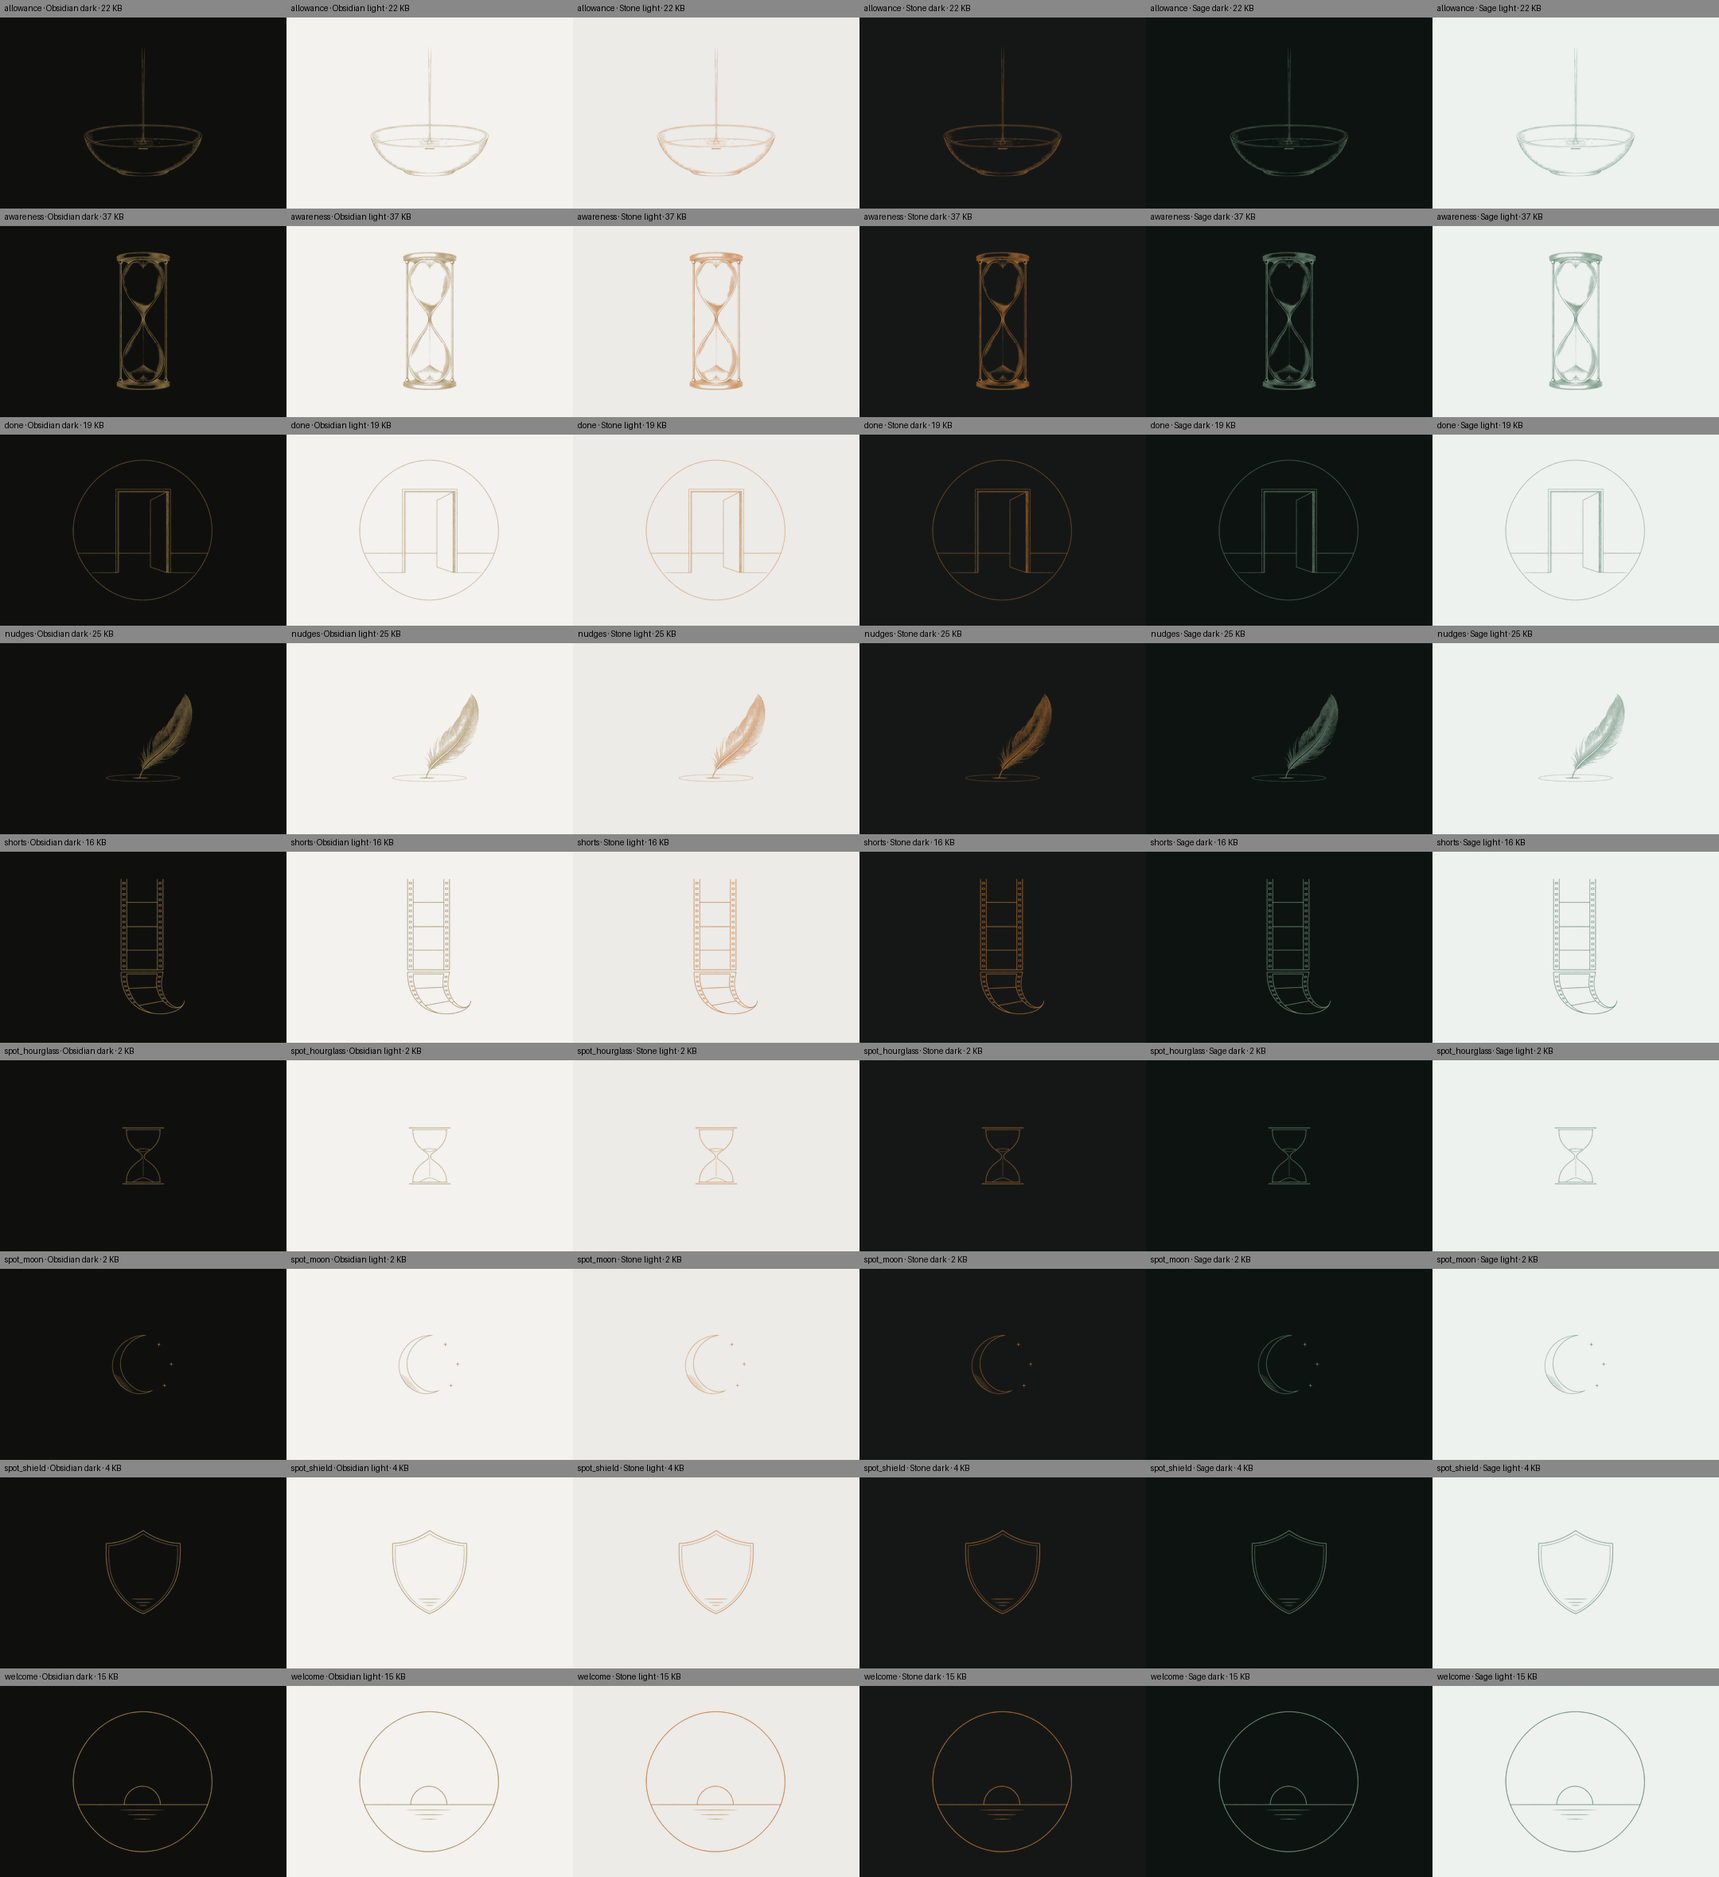
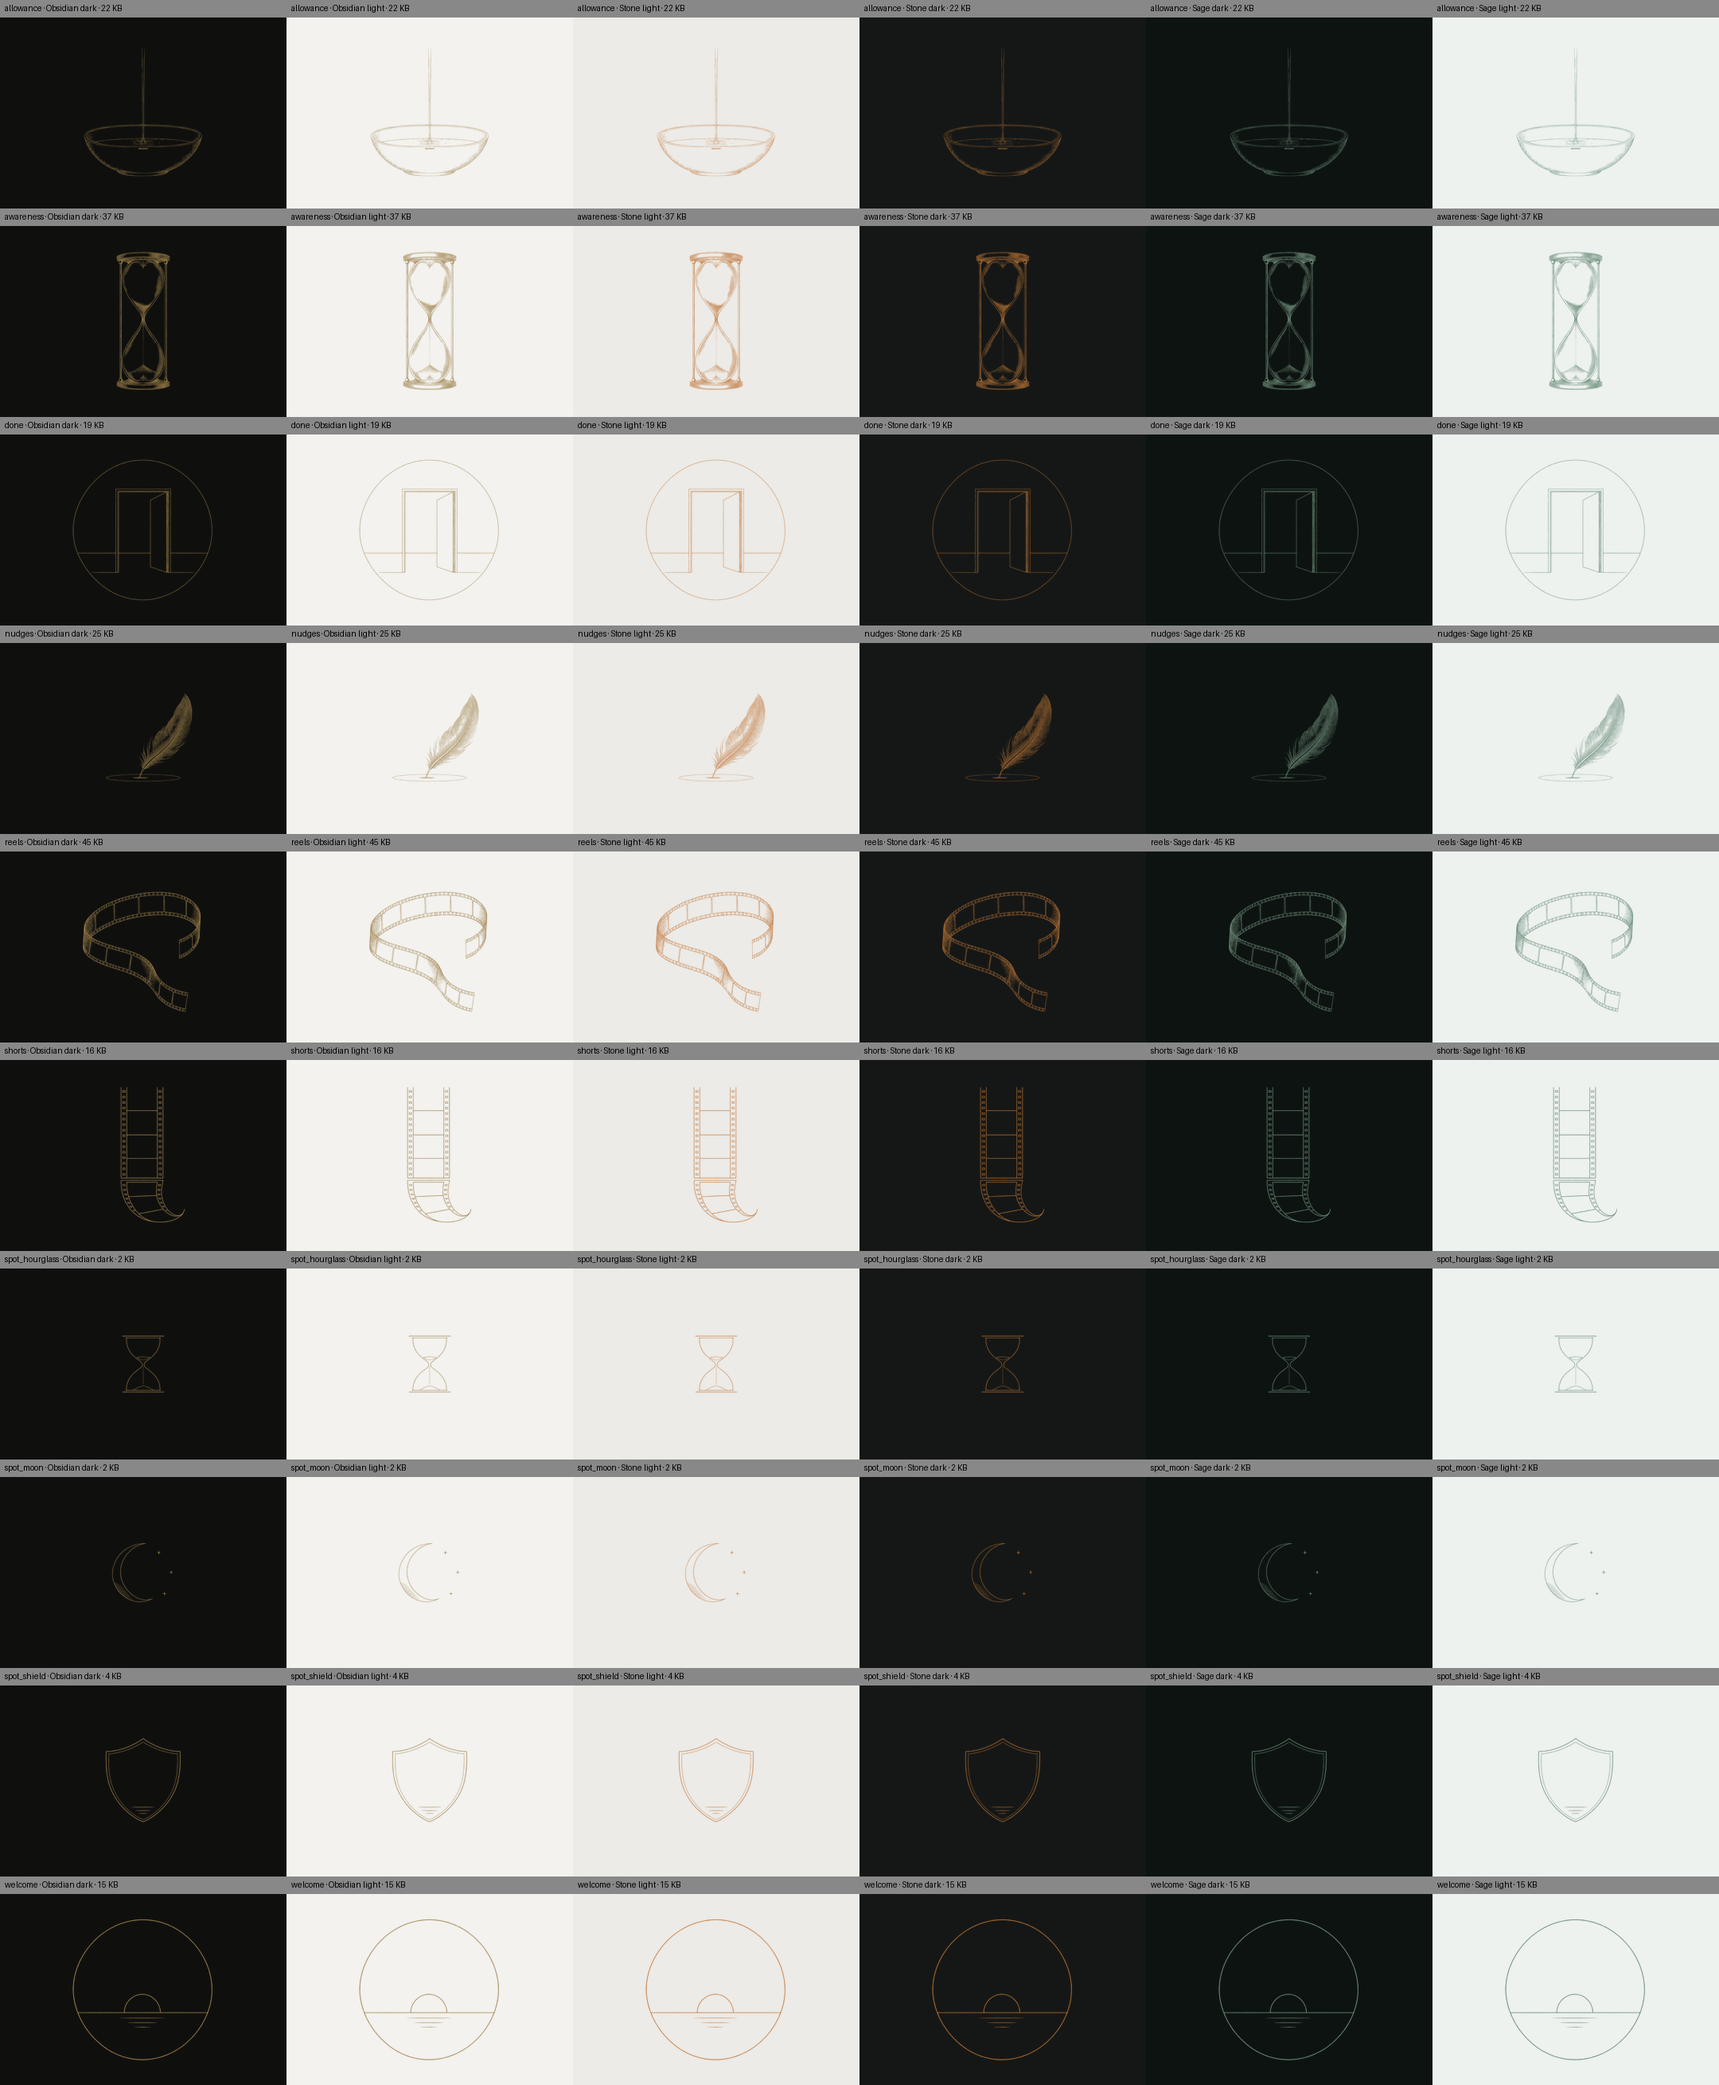
Onboarding image: Reels (10 of 10)
Regenerated by Codex imagegen (brief 13b): an open loop of film coming
apart. The first draft read as a speech bubble. 45 KB WebP, checked on
all six looks.

diff --git a/design/onboarding/README.md b/design/onboarding/README.md
@@ -7,6 +7,7 @@ These are generated by Codex imagegen (brief 13, 8 Nov 2026) in one style: fine 
 | welcome.png | onboarding_welcome.webp | Sun on still water inside a dial |
 | awareness.png | onboarding_awareness.webp | Hourglass |
 | shorts.png | onboarding_shorts.webp | Film strip, cut, end curling away |
+| reels.png | onboarding_reels.webp | Open loop of film coming apart, free end falling away |
 | allowance.png | onboarding_allowance.webp | Bowl filled to a marked line |
 | nudges.png | onboarding_nudges.webp | Feather landing on still water |
 | done.png | onboarding_done.webp | Open doorway to the horizon |
@@ -14,7 +15,22 @@ These are generated by Codex imagegen (brief 13, 8 Nov 2026) in one style: fine 
 | spot_hourglass.png | onboarding_spot_hourglass.webp | Hourglass (introduction cards) |
 | spot_moon.png | onboarding_spot_moon.webp | Crescent moon (introduction cards) |
 
-**Still to do:** reels.png. The first draft (`drafts/reels-reads-as-speech-bubble.png`) looks like a chat bubble, so it needs regenerating.
+## Reels prompt
+
+```text
+Use case: stylized-concept
+Asset type: premium Android onboarding illustration, final landscape PNG at 1536×1024
+Primary request: Create a short strip of photographic film coiled into a loose, open loop that is visibly coming apart, with one free end falling away downward in a gentle relaxed curve.
+Input images: welcome.png, shorts.png, and done.png are style references only; match their restrained scale, fine line weight, generous negative space, and calm engraved character. In particular, follow shorts.png for unmistakable film-strip construction and edge perforations.
+Scene/backdrop: fully transparent canvas, no paper, no scene, no shadow.
+Subject: one short strip of film. Both long edges carry a regular row of small rectangular sprocket perforations throughout the visible strip. The loop must remain visibly open and asymmetrical, with overlapping film segments and an unmistakable loose free end, so the object reads immediately as physical film uncoiling—not as a closed outlined symbol.
+Style/medium: pure black (#000000) hairline etched engraving line art, like a luxury watch catalogue or banknote technical engraving; sparse delicate cross-hatching only where needed to clarify overlap and ribbon curvature; no solid fills and no grey wash.
+Composition/framing: landscape 3:2 canvas; subject centered and confined to roughly the middle 55–60% of the canvas; abundant empty space on all sides. Gentle balanced diagonal flow. The falling free end curves down and away from the open loop.
+Lighting/mood: calm, quiet, precise, premium.
+Color palette: black linework only with genuine alpha transparency everywhere else.
+Constraints: output 1536×1024 PNG; fully transparent background; perforations along both film edges; no text, letters, numbers, logos, UI, or watermark; no people; preserve lots of negative space.
+Avoid: any closed speech-bubble silhouette, speech-bubble tail, heart shape, circle-with-tail symbol, app icon, Instagram/Reels mark, YouTube mark, play triangle, camera glyph, logo-like geometry, opaque white or off-white background, paper texture, vignette, solid black regions, thick outlines, busy composition.
+```
 
 ## Rebuild
 

diff --git a/docs/codex-briefs/brief13b.md b/docs/codex-briefs/brief13b.md
@@ -1,0 +1,12 @@
+# Brief 13b: Regenerate the Reels image
+
+This continues brief 13 (`docs/codex-briefs/brief13.md`). Use the same style rules. Nine images are already done in `design/onboarding/src/`; use `welcome.png`, `shorts.png` and `done.png` as the style reference.
+
+The first Reels draft (`design/onboarding/drafts/reels-reads-as-speech-bubble.png`) failed: the loop of film looked like a chat speech bubble.
+
+Make `reels.png` (1536×1024, black hairline etched line art on a fully transparent background, no text, no logos). Subject: **a short strip of film coiled into a loop that is coming apart, its free end falling away in a gentle curve.**
+- Draw film perforations along the edges, as in shorts.png, so it clearly reads as film.
+- The shape must not suggest a speech bubble, a heart, or any app logo.
+- Keep a lot of empty space, centred.
+
+Check it on a white background before accepting it. Copy the chosen PNG to `design/onboarding/src/reels.png`. Add its prompt to `design/onboarding/README.md` and remove the "Still to do" note there. Don't touch any other files.
